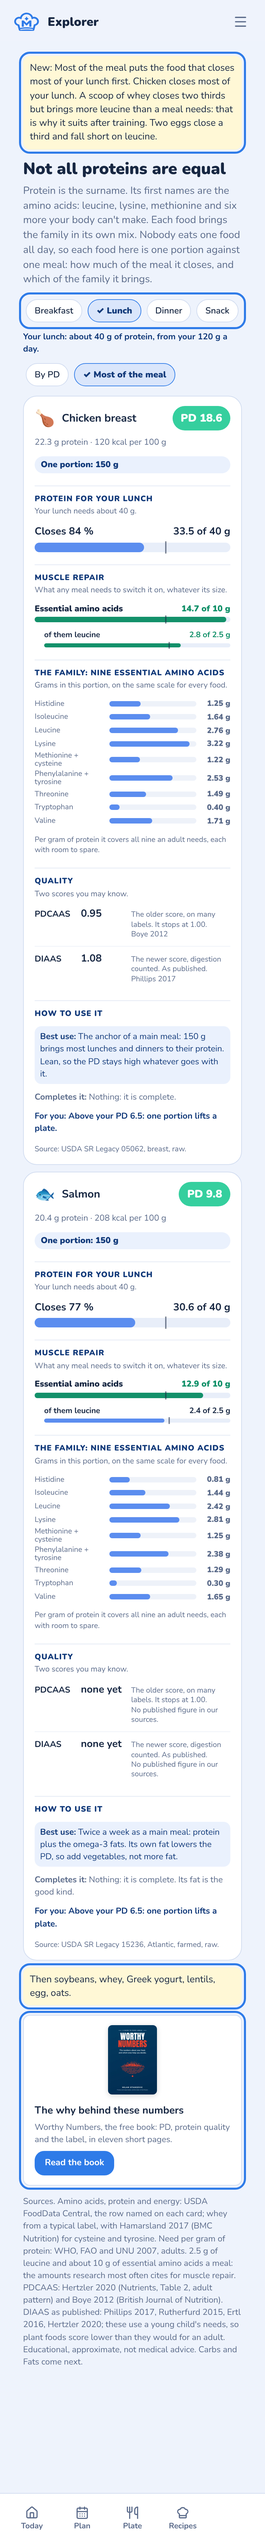
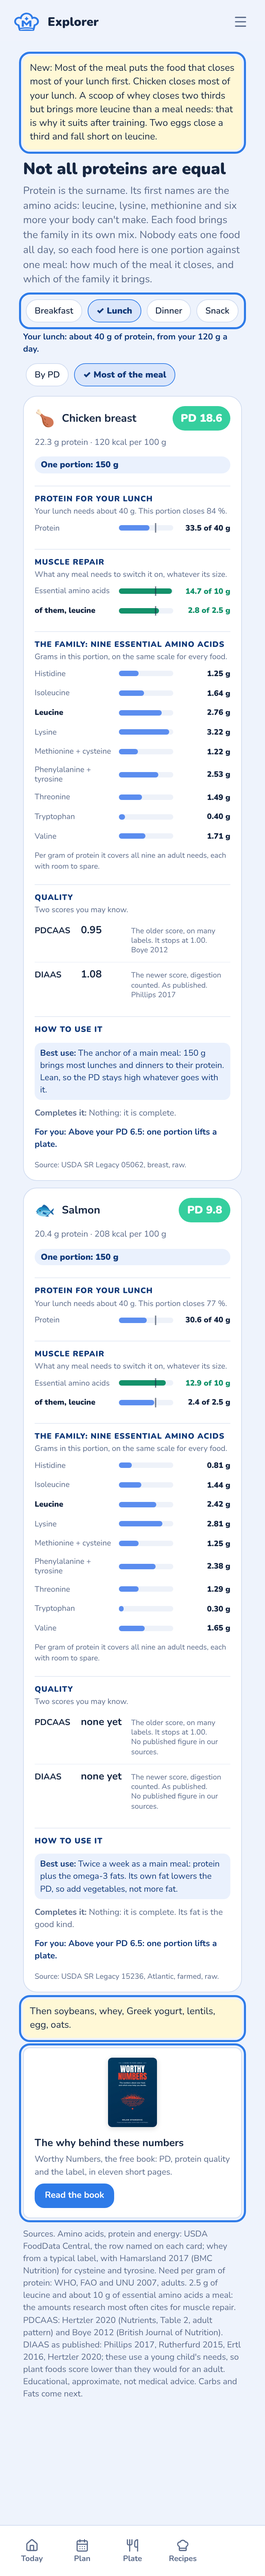
Board DT151 version 8: one row pattern for every measure, leucine in bold
Claude-Session: https://claude.ai/code/session_01BtJPGKTfK5KfbXuNDmfhQP

diff --git a/design/boards/genDT151.py b/design/boards/genDT151.py
@@ -86,6 +86,7 @@ W = SX + 3 * (SW + GAP) - GAP + 70
 B = Board(); y = 30
 cy = storyCard(B, y, "DT151", "Explorer: not all proteins are equal (the MVP for the pitch, version 4: one portion against one meal)", [
   ("Coach Milan, 29 October 09:41 to 10:10", "The Explorer becomes part of Chef Mealan, built from scratch, the design as design only; a link in the Menu below Foods, to show new beta testers. Add the whole spectrum of essential amino acids and their levels, and when and how to use each food best. Check the data: everything was almost 200 %. Maybe grams are better."),
+  ("Coach Milan, 11:50", "It is not the same pattern for protein and for the amino acids, so a cold reader has to read each differently. Bold leucine in the list of amino acids."),
   ("Coach Milan, 11:43", "Better. Still not clear what each block is about. Headings, then the graph below. Make it visually clear what is what."),
   ("Coach Milan, 11:37", "PDCAAS and DIAAS are again in boxes, two per row: one below another. On top, closes the day, one amino acid and total essential amino acids look equal: it needs a visual hierarchy, what belongs to what."),
   ("Coach Milan, 11:27 and 11:28", "Where are the other metrics? And the family: protein is the surname, but the first names are the amino acids, not whey or chicken. The same for fats: saturated, monounsaturated. Add the source, where the data were taken from."),
@@ -93,7 +94,7 @@ cy = storyCard(B, y, "DT151", "Explorer: not all proteins are equal (the MVP for
   ("Coach Milan, 10:55 and 11:02", "Against my day it is wrong: one scoop of whey looks like almost the whole day. Against one meal: the projected meal portion, and every food against that, to show how one food can close the meal. No one eats the same food across the day. Use the page to promote Worthy Numbers, and bring back what people know: one or two other metrics, DIAAS."),
   ("What was wrong in version 3", "The day's need was WHO's minimum, set at 0.66 g of protein per kg for an inactive adult. Your target is about twice that, so one scoop looked like most of a day."),
   ("Now, checked in 0.2.131", "No Explorer. What makes one protein food different from another lives only in Chef Mealan's lines on a plate and in PD."),
-  ("The story", "Menu: Explorer, below Foods. One page, Not all proteins are equal: protein is the surname, its first names are the amino acids (leucine, lysine, methionine and six more the body can't make), and each food brings the family in its own mix. Eight protein foods. At the top, the meal: Breakfast, Lunch, Dinner, Snack, the next meal picked; its protein from your own day (for 120 g a day and three meals, a lunch is about 40 g; a snack half a meal). Each card: PD in the app's colours, per 100 g; one normal portion; then five sections, each a heading in capitals over a thin line, a short line under it, then its graph: PROTEIN FOR YOUR LUNCH (your lunch needs about 40 g; Closes 77 %, 30.6 of 40 g, the thickest bar); MUSCLE REPAIR (what any meal needs to switch it on: Essential amino acids against about 10 g, and indented, smaller, of them leucine against 2.5 g); THE FAMILY: NINE ESSENTIAL AMINO ACIDS (grams, one below another); QUALITY (PDCAAS and DIAAS); HOW TO USE IT (Best use, Completes it, For you). Green when the portion alone covers it. Then The family in this portion: the nine in grams, one below another, each a bar on the same scale for every food (0 to 3.5 g), so the levels compare across cards; when one only just covers the need per gram, it is marked amber, its lowest (lentils: methionine and cysteine; oats: lysine), and that is what a partner tops up. Then Quality, the two scores people know, one below another, each a row with its value, one line and its source: PDCAAS, the older score on many labels, stops at 1.00 (adult pattern where published); DIAAS, the newer one, digestion counted, as published. Salmon has neither in our sources yet, and the card says so. Then Best use, what completes it, one line against your PD target, and Source: the food table row the numbers come from. Two chips sort: By PD, Most of the meal. At the end: The why behind these numbers, Worthy Numbers, the free book, with Read the book; visits from here count as their own source, Explorer, in Metrics. One line names the sources and says what DIAAS as published means."),
+  ("The story", "Menu: Explorer, below Foods. One page, Not all proteins are equal: protein is the surname, its first names are the amino acids (leucine, lysine, methionine and six more the body can't make), and each food brings the family in its own mix. Eight protein foods. At the top, the meal: Breakfast, Lunch, Dinner, Snack, the next meal picked; its protein from your own day (for 120 g a day and three meals, a lunch is about 40 g; a snack half a meal). Each card: PD in the app's colours, per 100 g; one normal portion; then five sections, each a heading in capitals over a thin line, a short line under it, then its graph; every measure in the same pattern, the name on the left, the bar, the grams on the right, and a line on the bar where the meal has a need (green when the portion covers it); leucine in bold wherever it appears: PROTEIN FOR YOUR LUNCH (your lunch needs about 40 g, this portion closes 77 %; Protein, 30.6 of 40 g); MUSCLE REPAIR (what any meal needs to switch it on: Essential amino acids, 12.9 of 10 g; of them, leucine, 2.4 of 2.5 g); THE FAMILY: NINE ESSENTIAL AMINO ACIDS (grams, one below another); QUALITY (PDCAAS and DIAAS); HOW TO USE IT (Best use, Completes it, For you). Green when the portion alone covers it. Then The family in this portion: the nine in grams, one below another, each a bar on the same scale for every food (0 to 3.5 g), so the levels compare across cards; when one only just covers the need per gram, it is marked amber, its lowest (lentils: methionine and cysteine; oats: lysine), and that is what a partner tops up. Then Quality, the two scores people know, one below another, each a row with its value, one line and its source: PDCAAS, the older score on many labels, stops at 1.00 (adult pattern where published); DIAAS, the newer one, digestion counted, as published. Salmon has neither in our sources yet, and the card says so. Then Best use, what completes it, one line against your PD target, and Source: the food table row the numbers come from. Two chips sort: By PD, Most of the meal. At the end: The why behind these numbers, Worthy Numbers, the free book, with Read the book; visits from here count as their own source, Explorer, in Metrics. One line names the sources and says what DIAAS as published means."),
   ("Not in it", "3D molecules, the other families, links from the Plate and Foods, the design's Coach, Goal or profiles. A public version for people not signed in."),
   ("The numbers, checked", "Amino acids per 100 g from USDA FoodData Central, cysteine and tyrosine added; fixed against the design's data.js: soybeans 18.2 g protein, not 16.6; oats lysine 0.64 g, not 0.53; chicken and Greek yogurt to the USDA rows. Whey has no USDA amino acid row: a published whey analysis, a brand's label in the build. Need per gram of protein: WHO, FAO and UNU 2007, adults; for an adult all eight cover it. 2.5 g of leucine and about 10 g of essential amino acids a meal: the amounts research most often cites for muscle repair. PDCAAS: Hertzler 2020 (Nutrients 12:3704, Table 2, adult pattern: whey, milk, soy 1.00, lentils 0.80, oats 0.62) and Boye 2012 (egg 1.00, chicken 0.95). DIAAS as published: Phillips 2017 (whey isolate 1.09, chicken 1.08, whole milk 1.14, egg 1.13), Ertl 2016 (soybeans 1.00), Rutherfurd 2015 (oats 0.54), Hertzler 2020 (lentils 0.75); these use a young child's needs, so plant foods score lower than for an adult; the page says so. Boye, Phillips, Rutherfurd and Ertl were read through a summary table; in the build each figure is checked against the paper itself. The page footer names every source."),
 ])
